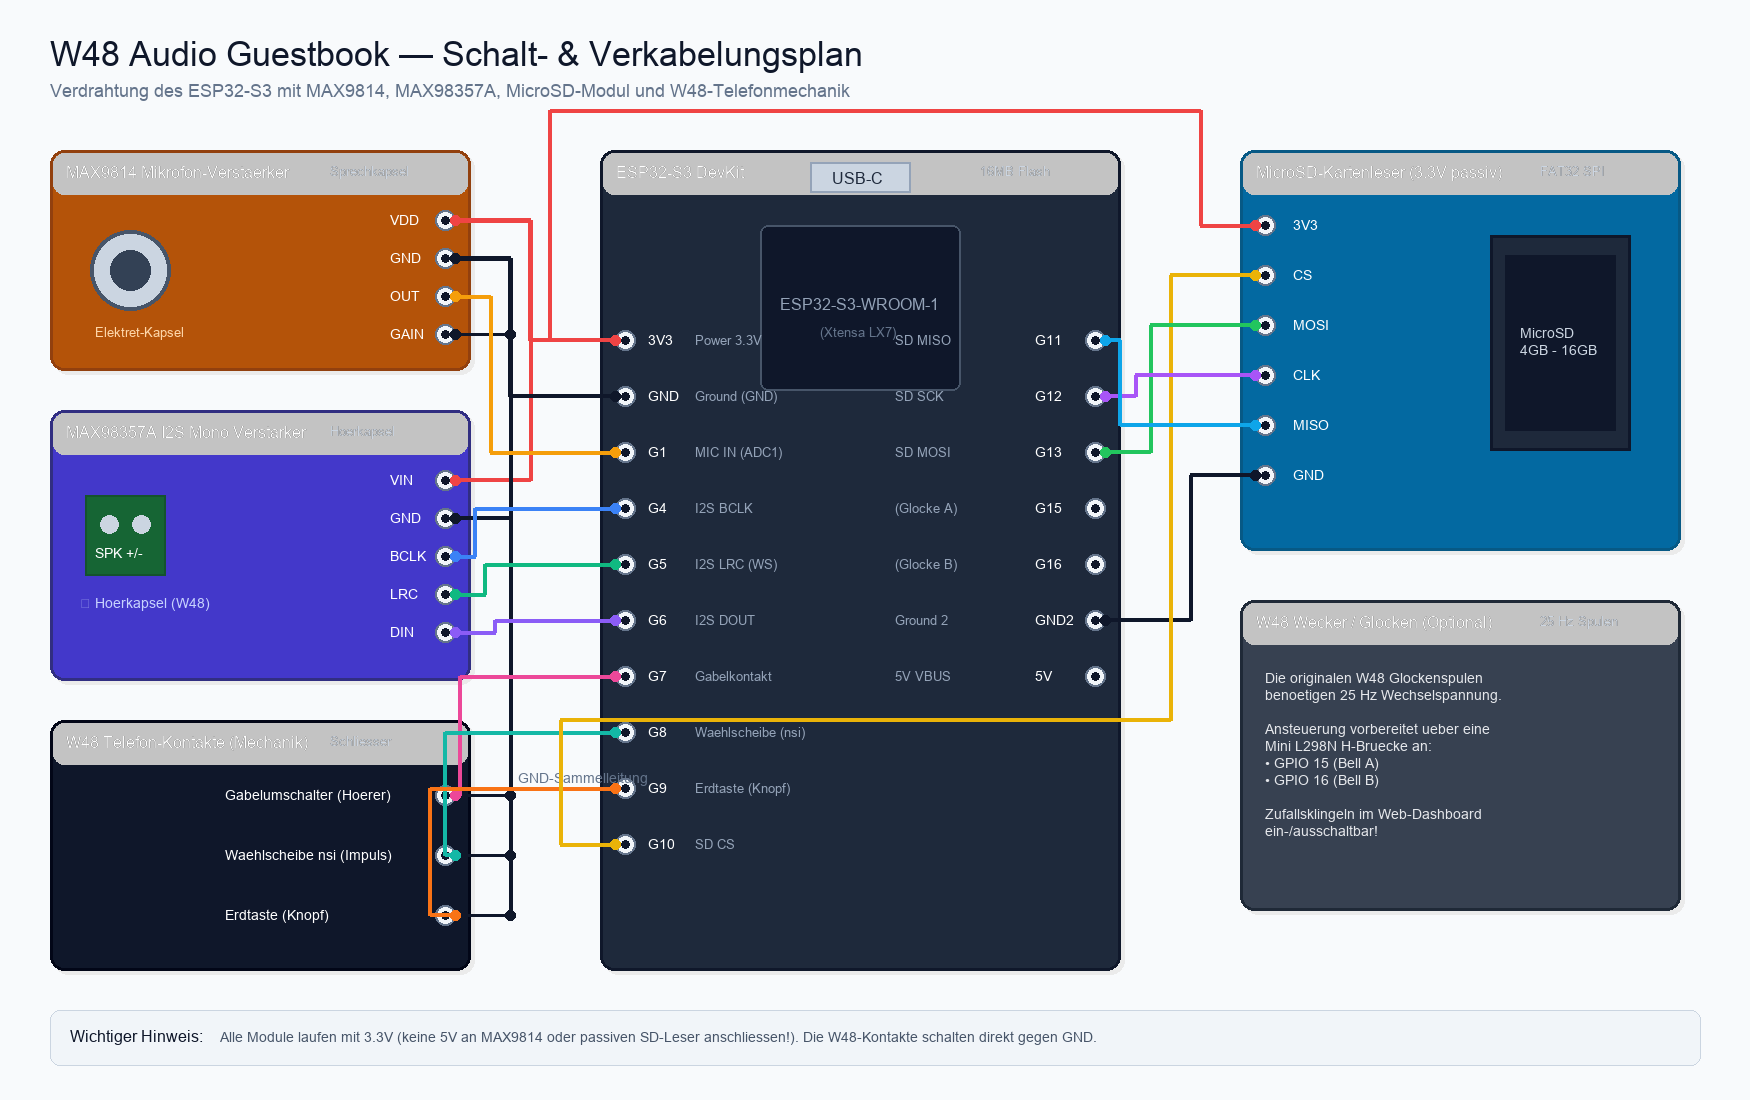
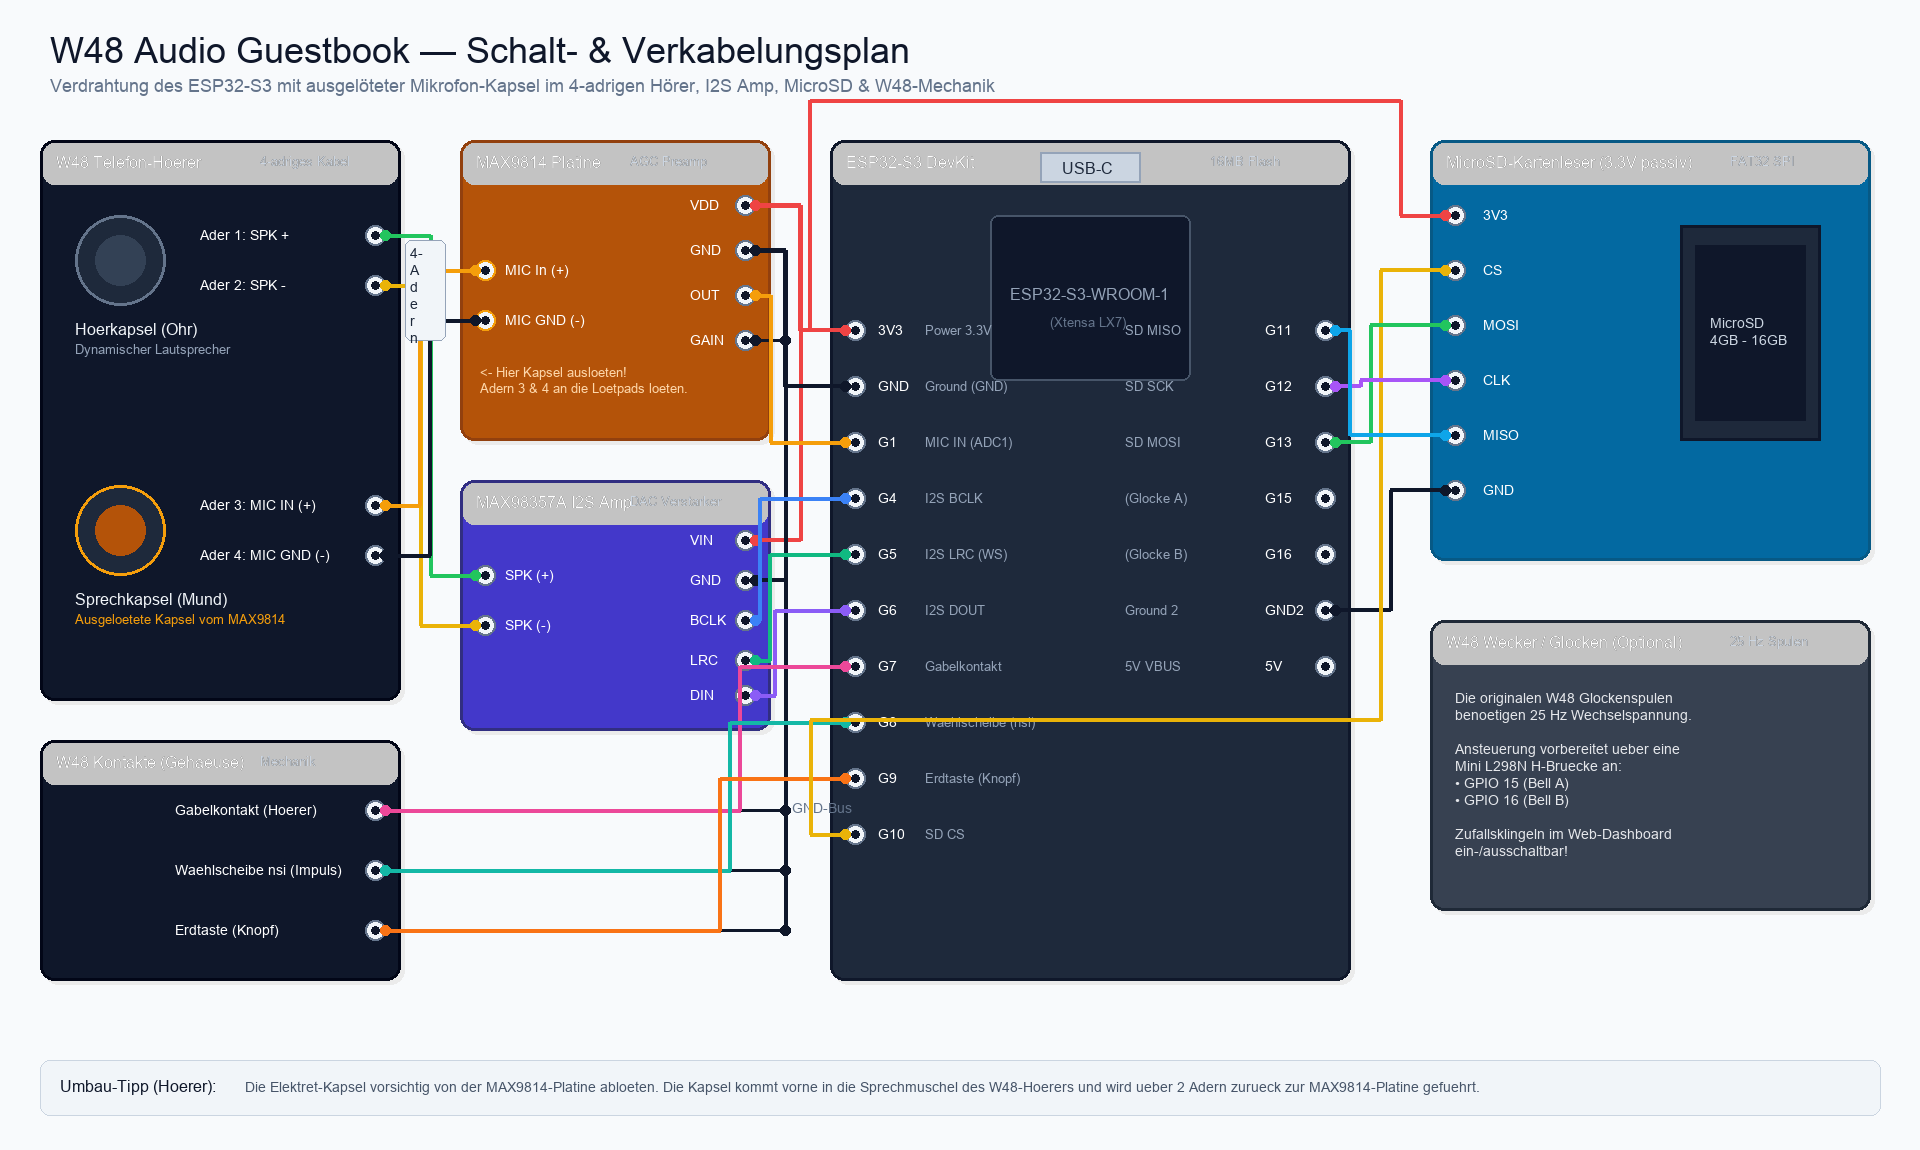
Update wiring diagram: add 4-wire W48 handset with desoldered mic capsule

diff --git a/README.md b/README.md
@@ -30,7 +30,7 @@ Umbau eines historischen **W48 Bakelit-Tischtelefons** zu einem autarken Audio-G
 1. **W48 Tischtelefon** (historisches Bakelit-Telefon der Deutschen Bundespost, mit Hörer, Gabelkontakt, Erdtaste und N38-Wählscheibe)
 2. **ESP32-S3 Entwicklungsboard** (z. B. ESP32-S3-DevKitC-1 mit 16MB Flash, 8MB PSRAM, USB-C)
 3. **MAX98357A I2S Mono-Verstärker** (DAC & Verstärker für die originale Hörkapsel/Lautsprecher im W48-Hörer)
-4. **MAX9814 Elektret-Mikrofonverstärker** mit automatischer Verstärkungsregelung (AGC) – ersetzt die Kohlekapsel in der Sprechmuschel
+4. **MAX9814 Elektret-Mikrofonverstärker** mit AGC – *Hinweis:* Die kleine runde Elektret-Kapsel wird von der MAX9814-Platine abgelötet und wandert vorn in die Sprechmuschel des W48-Hörers (verbunden über 2 Adern des 4-adrigen Hörerkabels zurück an die Lötpads der Platine).
 5. **MicroSD-Kartenleser-Modul (passiv, 3.3V)** mit SPI-Schnittstelle (ohne 5V-Spannungsregler / Level-Shifter für schnellere Signalflanken)
 6. **MicroSD-Karte** (z. B. 4 GB oder 8 GB, FAT32)
 7. *(Optional)* **L298N Mini H-Brücke** oder Transistorstufe zur Ansteuerung der originalen 25-Hz-Wechselstromwecker (Glocken) an GPIO 15 & 16
